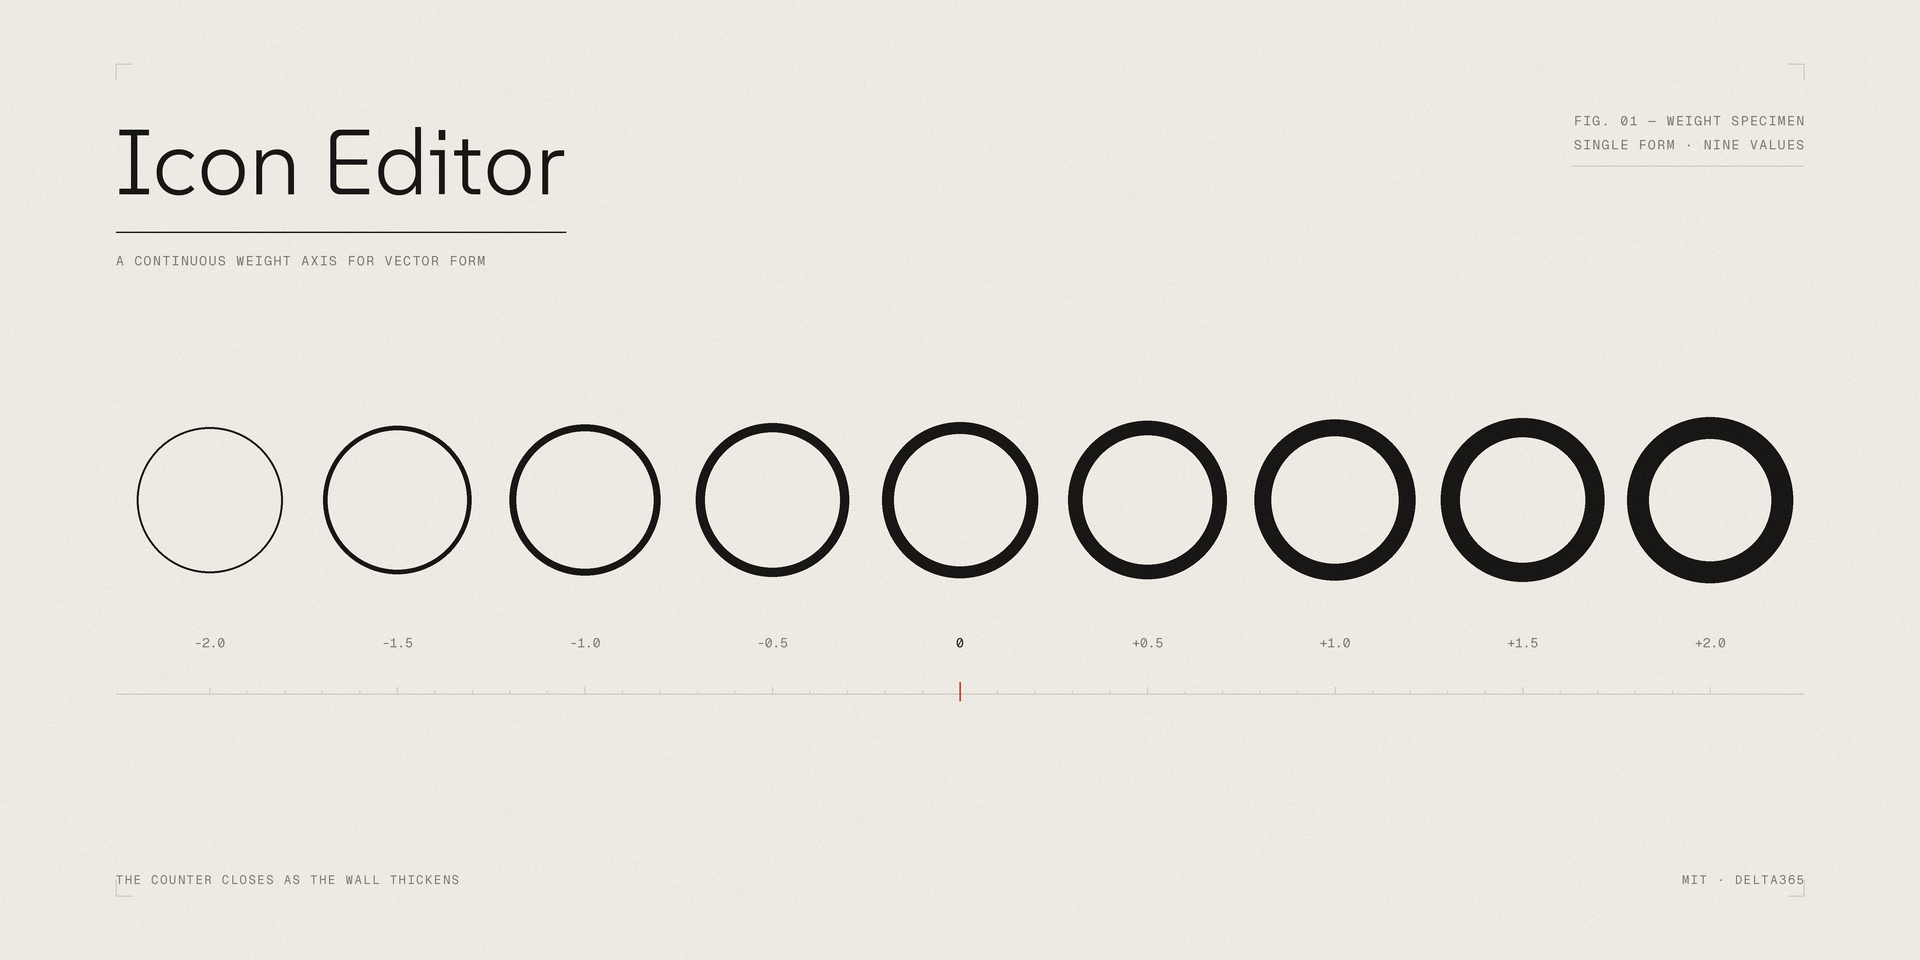
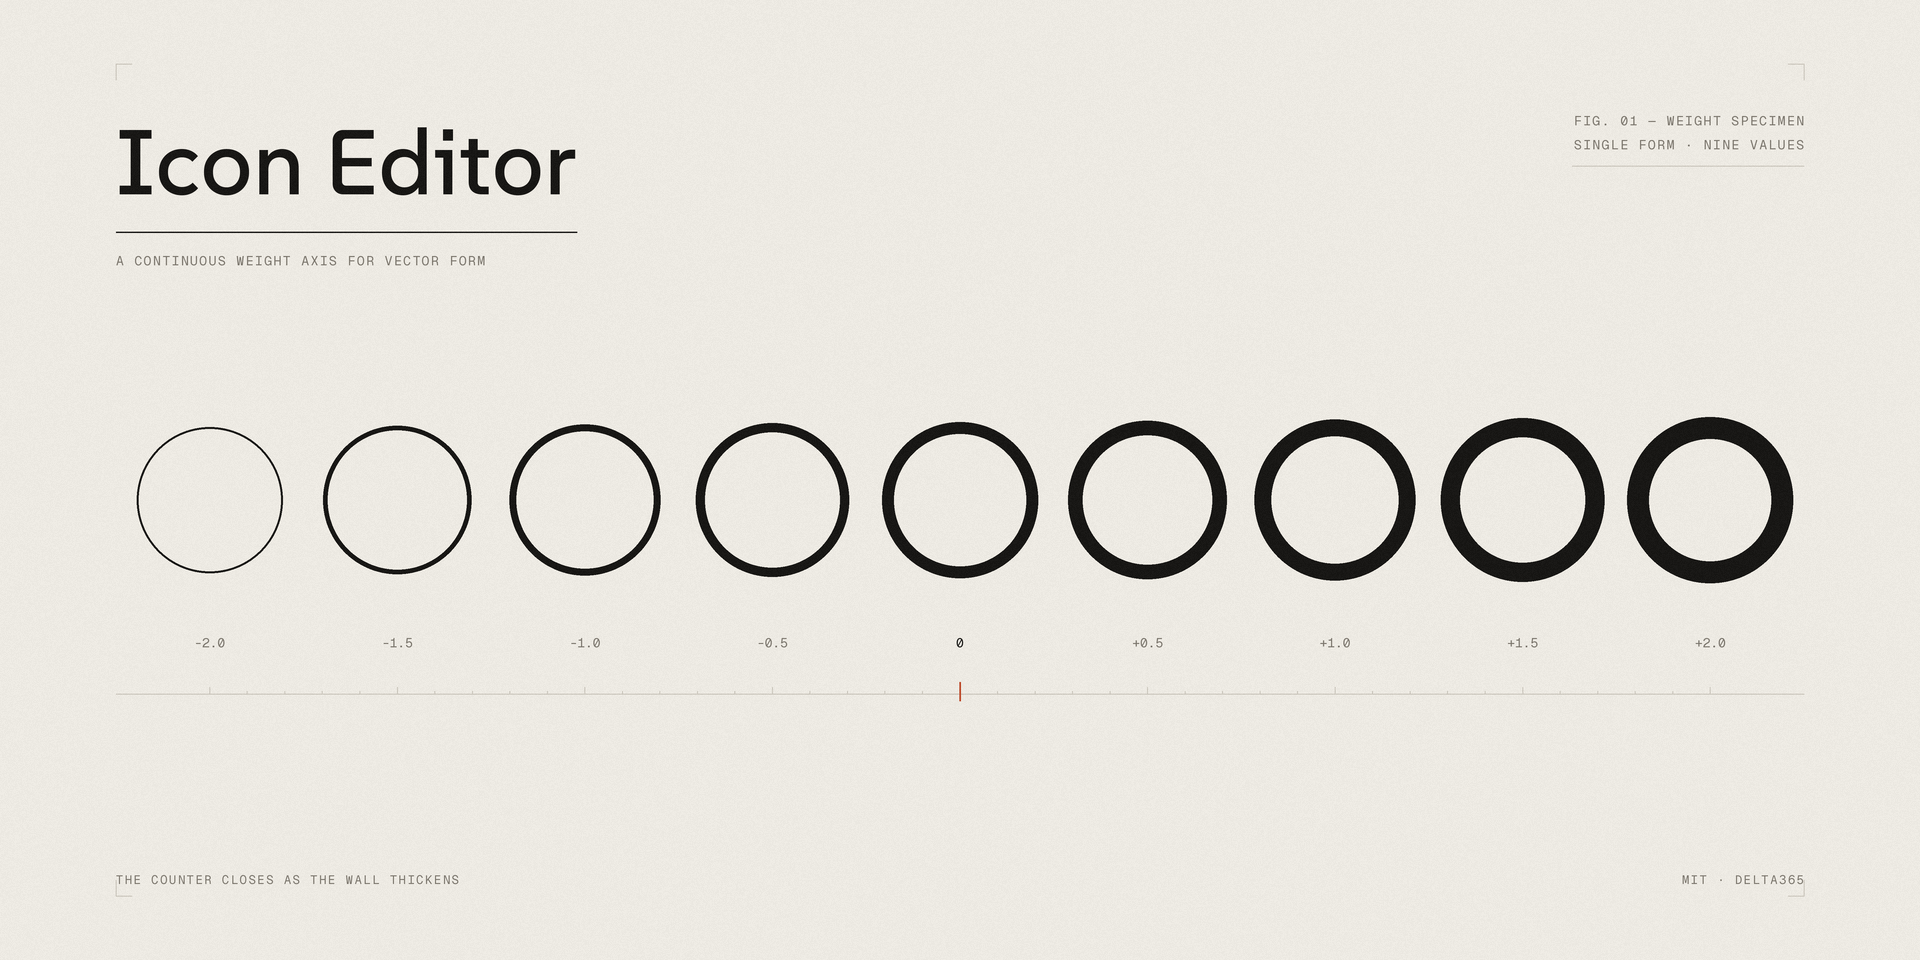
Set the cover title in SUSE Medium
Medium gives the title more presence against the ring series, and the
underline rule tracks the wider setting automatically since it measures the
word.

Changed region(s): [[0.0625, 0.125, 0.3125, 0.2188]]

diff --git a/assets/render.py b/assets/render.py
@@ -119,9 +119,7 @@ def render_cover(path: str) -> None:
     ML, MR = 116, 116
     inner = W - ML - MR
 
-    # SUSE Light: enough presence to anchor the sheet, not enough to compete
-    # with the heavy end of the series.
-    f_title = font(DISPLAY, 92, "Light")
+    f_title = font(DISPLAY, 92, "Medium")
     f_sub   = font(MONO, 13, "Regular")
     f_tick  = font(MONO, 13, "Regular")
     f_note  = font(MONO, 12, "Regular")
